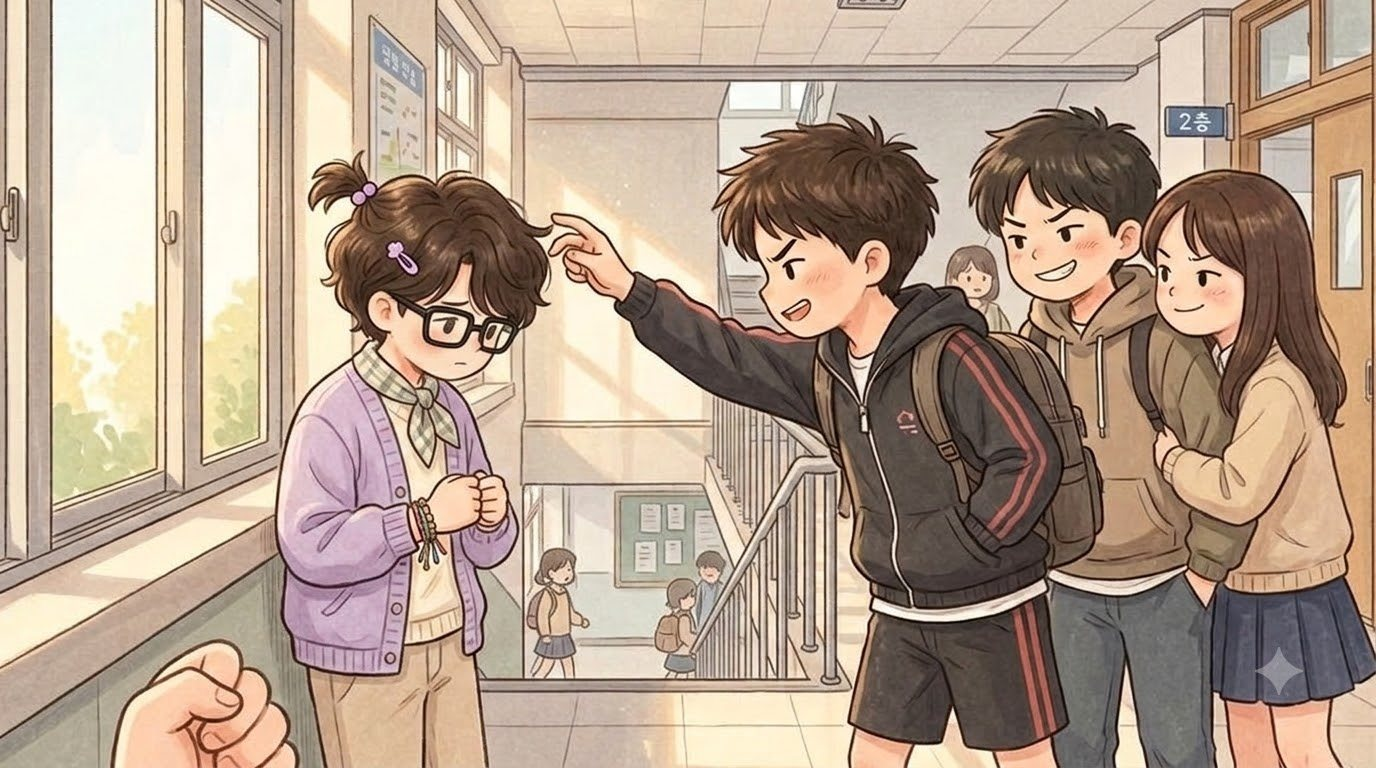
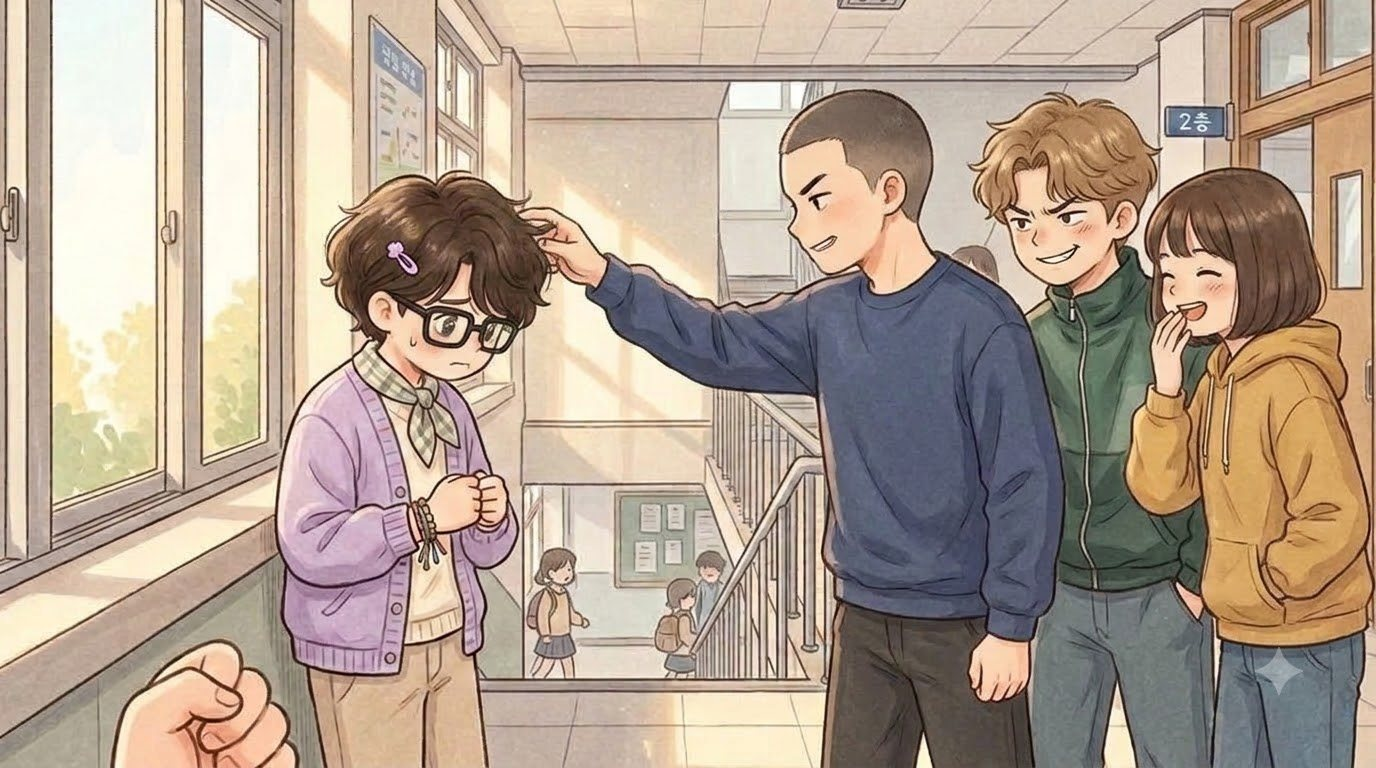
Hangyeol meeting 9 (Day 10): the three fifth graders in picture 09 redrawn in Flow - older, a head taller, buzz cut navy sweatshirt / green windbreaker / bob in mustard hoodie, no longer looking like Minho or other classmates (owner 11/07)

Changed region(s): [[0.3438, 0.0938, 1.0, 1.0], [0.2188, 0.1875, 0.3125, 0.3438], [0.3125, 0.375, 0.375, 0.4688]]

diff --git a/index.html b/index.html
@@ -119,14 +119,14 @@ body,button{word-break:keep-all;overflow-wrap:break-word}
 <div id="fader"></div>
 <script>
 // same address, newest version: if the page this phone has kept is older than the one online, fetch the new one and reopen
-const BUILD='1107155332';
+const BUILD='1107155619';
 try{fetch(location.pathname,{cache:'no-store'}).then(r=>r.text()).then(t=>{const m=t.match(/const BUILD='(\d+)'/);if(m&&m[1]!==BUILD&&sessionStorage.getItem('upd')!==m[1]){sessionStorage.setItem('upd',m[1]);fetch(location.pathname,{cache:'reload'}).then(()=>location.reload())}}).catch(()=>{})}catch(e){}
 </script>
-<script src="i18n.js?v=1107155332"></script>
-<script src="i18n_prologue_v2.js?v=1107155332"></script>
-<script src="day2/i18n_engine.js?v=1107155332"></script>
-<script src="day2/data.js?v=1107155332"></script>
-<script src="day3/data.js?v=1107155332"></script>
+<script src="i18n.js?v=1107155619"></script>
+<script src="i18n_prologue_v2.js?v=1107155619"></script>
+<script src="day2/i18n_engine.js?v=1107155619"></script>
+<script src="day2/data.js?v=1107155619"></script>
+<script src="day3/data.js?v=1107155619"></script>
 <script>
 // ---------- data ----------
 const MW=1672,MH=941,KID=180;
@@ -569,35 +569,35 @@ function pickHero(){const m=document.getElementById('modal'),c=document.getEleme
  c.innerHTML=`<h2>${tr('전학생 반장되기')}</h2><p>${tr('한국말이 아직 서툰 전학생,<br>반장 선거에 나가다.')}</p><p style="margin-top:14px">${tr('누구로 할까요?')}</p>${(()=>{const s=loadSave();return s&&s.day>=2&&s.mode===UI+'-'+LANG?`<p><button class="big" id="cont">${tr('{n}일차부터 이어 하기').replace('{n}',s.day)}</button></p>`:''})()}<div class="pick heroes"><button data-h="hero_f"><img src="faces/hero_f_smile.jpg" alt="여자 주인공">${heroName(1)}</button><button data-h="hero_m"><img src="faces/hero_m_smile.jpg" alt="남자 주인공">${heroName(0)}</button></div>`;
  m.classList.add('on');{const cb=document.getElementById('cont');if(cb)cb.onclick=()=>{const s=loadSave();HERO=s.hero;Object.assign(HEART,s.heart||{});(s.found||[]).forEach(k=>FOUND.add(k));HEART_D1={...HEART};chime();(typeof contGame==='function'?contGame(s):startDay(Math.min(s.day,Object.keys(window.D3||{}).length?3:2)))}}c.querySelectorAll('.pick button').forEach(b=>b.onclick=()=>{HERO=b.dataset.h;m.classList.remove('on');chime();bgm('day');load('home_am');say([['nar','','이사 온 다음 날 아침. 아직 풀지 못한 상자들이 쌓여 있다.'],['think','sad','(오늘부터 새 학교야. 여기 말도 아직 서툰데…….)'],['think','smile','({m}한테 인사하고 학교 가야지.)']],morning)})}
 </script>
-<script src="day2/engine.js?v=1107155332"></script>
-<script src="day2/ep_minho.js?v=1107155332"></script>
-<script src="day2/meet.js?v=1107155332"></script>
-<script src="day2/ep_sua.js?v=1107155332"></script>
-<script src="day2/ep_hangyeol.js?v=1107155332"></script>
-<script src="day2/ep_siwoo.js?v=1107155332"></script>
-<script src="day2/ep_haram.js?v=1107155332"></script>
-<script src="day2/ep_jiho.js?v=1107155332"></script>
-<script src="day2/ep_hyeeun.js?v=1107155332"></script>
-<script src="day2/ep_haneul.js?v=1107155332"></script>
-<script src="day2/ep_junho.js?v=1107155332"></script>
-<script src="day2/ep_yuna.js?v=1107155332"></script>
-<script src="day2/ep_yena.js?v=1107155332"></script>
-<script src="day2/ep_haeun.js?v=1107155332"></script>
-<script src="day2/ep_youngmin.js?v=1107155332"></script>
-<script src="day2/ep_seah.js?v=1107155332"></script>
-<script src="day2/ep_jihoon.js?v=1107155332"></script>
-<script src="words_ja_ru.js?v=1107155332"></script>
-<script src="day2/mybag.js?v=1107155332"></script>
-<script src="day2/wordpics.js?v=1107155332"></script>
-<script src="day2/spots.js?v=1107155332"></script>
-<script src="day2/textfit.js?v=1107155332"></script>
-<script src="day2/tester.js?v=1107155332"></script>
-<script src="day2/ux.js?v=1107155332"></script>
-<script src="day2/tapword.js?v=1107155332"></script>
-<script src="day2/review.js?v=1107155332"></script>
-<script src="day2/plane.js?v=1107155332"></script>
-<script src="day2/ep_ending.js?v=1107155332"></script>
-<script src="day2/ending.js?v=1107155332"></script>
+<script src="day2/engine.js?v=1107155619"></script>
+<script src="day2/ep_minho.js?v=1107155619"></script>
+<script src="day2/meet.js?v=1107155619"></script>
+<script src="day2/ep_sua.js?v=1107155619"></script>
+<script src="day2/ep_hangyeol.js?v=1107155619"></script>
+<script src="day2/ep_siwoo.js?v=1107155619"></script>
+<script src="day2/ep_haram.js?v=1107155619"></script>
+<script src="day2/ep_jiho.js?v=1107155619"></script>
+<script src="day2/ep_hyeeun.js?v=1107155619"></script>
+<script src="day2/ep_haneul.js?v=1107155619"></script>
+<script src="day2/ep_junho.js?v=1107155619"></script>
+<script src="day2/ep_yuna.js?v=1107155619"></script>
+<script src="day2/ep_yena.js?v=1107155619"></script>
+<script src="day2/ep_haeun.js?v=1107155619"></script>
+<script src="day2/ep_youngmin.js?v=1107155619"></script>
+<script src="day2/ep_seah.js?v=1107155619"></script>
+<script src="day2/ep_jihoon.js?v=1107155619"></script>
+<script src="words_ja_ru.js?v=1107155619"></script>
+<script src="day2/mybag.js?v=1107155619"></script>
+<script src="day2/wordpics.js?v=1107155619"></script>
+<script src="day2/spots.js?v=1107155619"></script>
+<script src="day2/textfit.js?v=1107155619"></script>
+<script src="day2/tester.js?v=1107155619"></script>
+<script src="day2/ux.js?v=1107155619"></script>
+<script src="day2/tapword.js?v=1107155619"></script>
+<script src="day2/review.js?v=1107155619"></script>
+<script src="day2/plane.js?v=1107155619"></script>
+<script src="day2/ep_ending.js?v=1107155619"></script>
+<script src="day2/ending.js?v=1107155619"></script>
 <script>
 // the goal shows big for a few seconds, then folds into a small pill (tap it to open it again)
 {const g=document.getElementById('goal');let t=null;const big=()=>{g.classList.remove('mini');clearTimeout(t);t=setTimeout(()=>g.classList.add('mini'),4000)};
